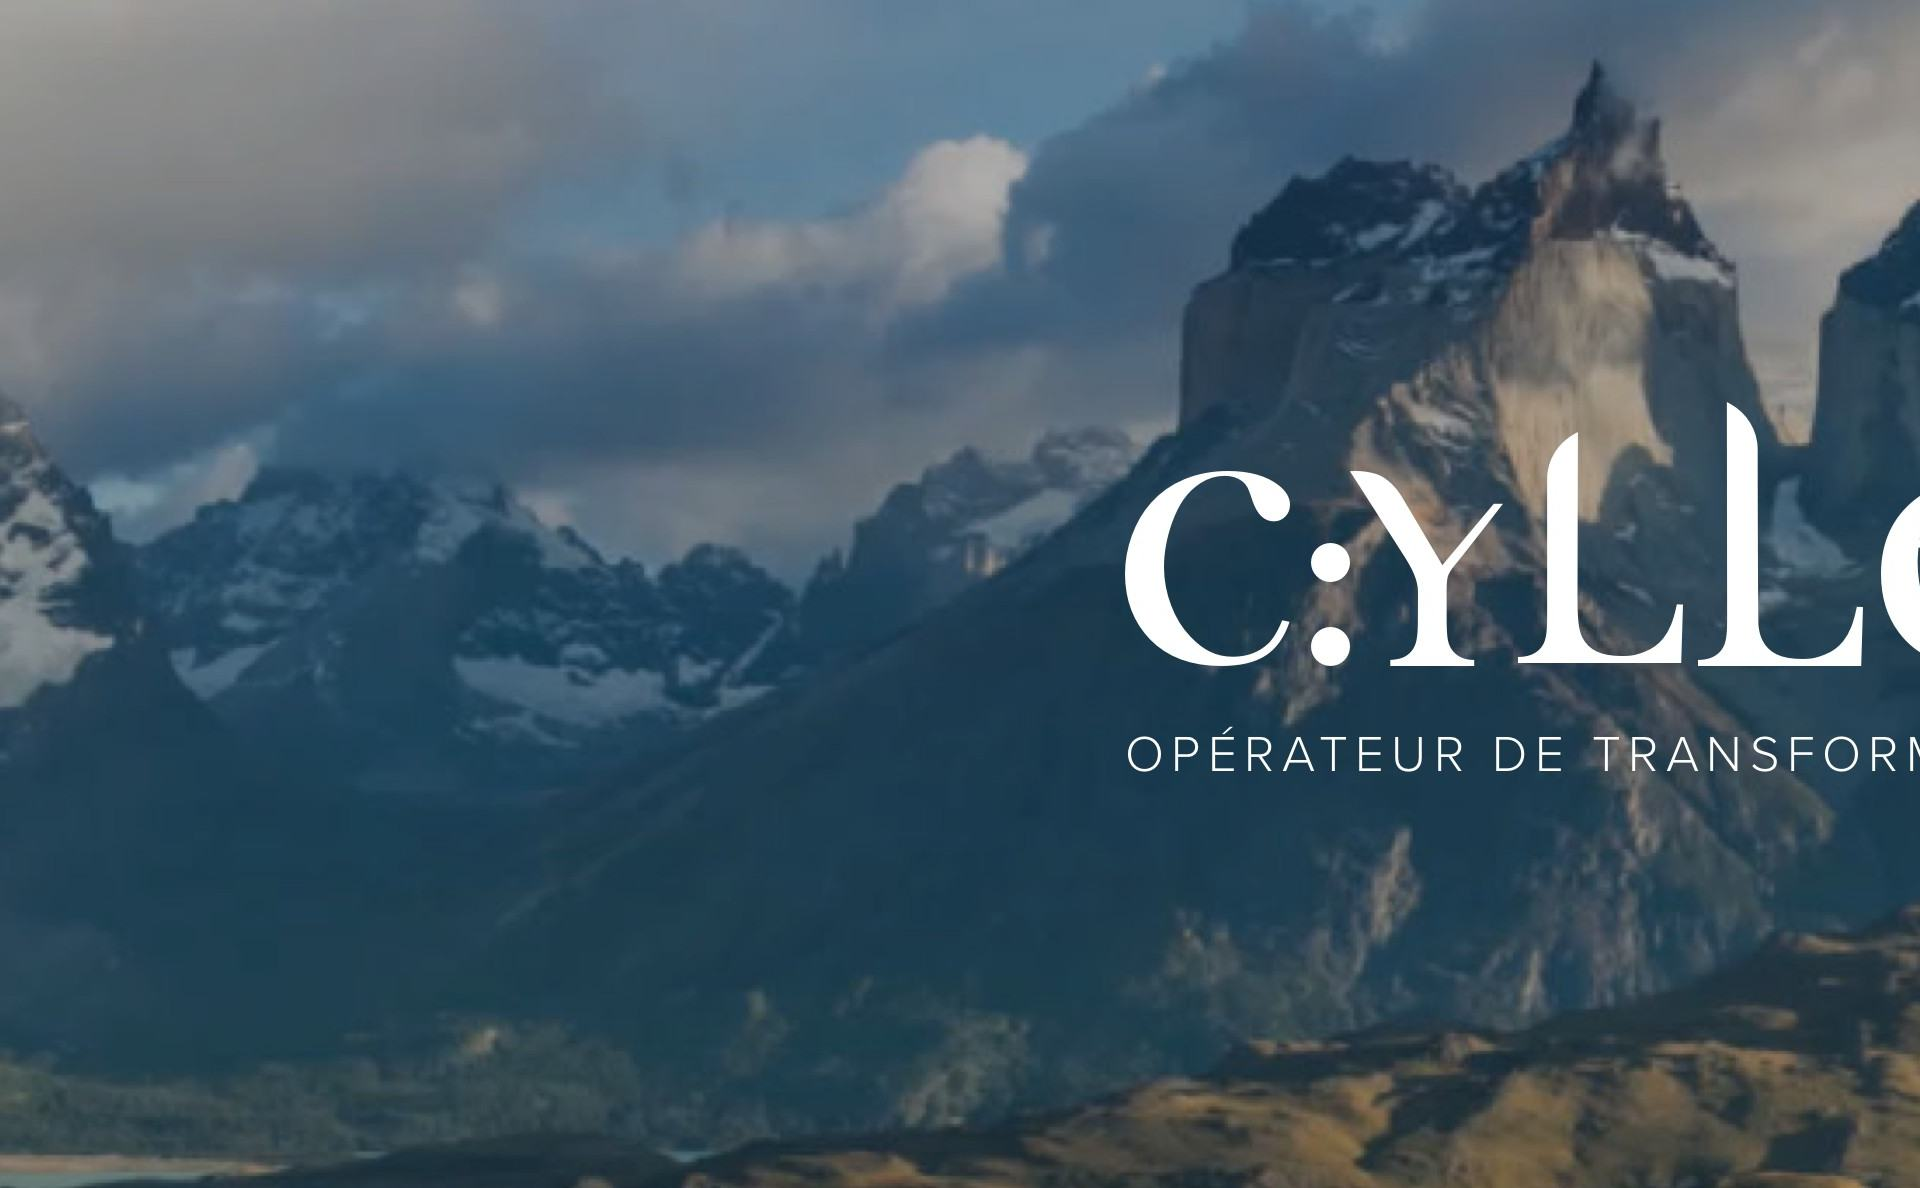
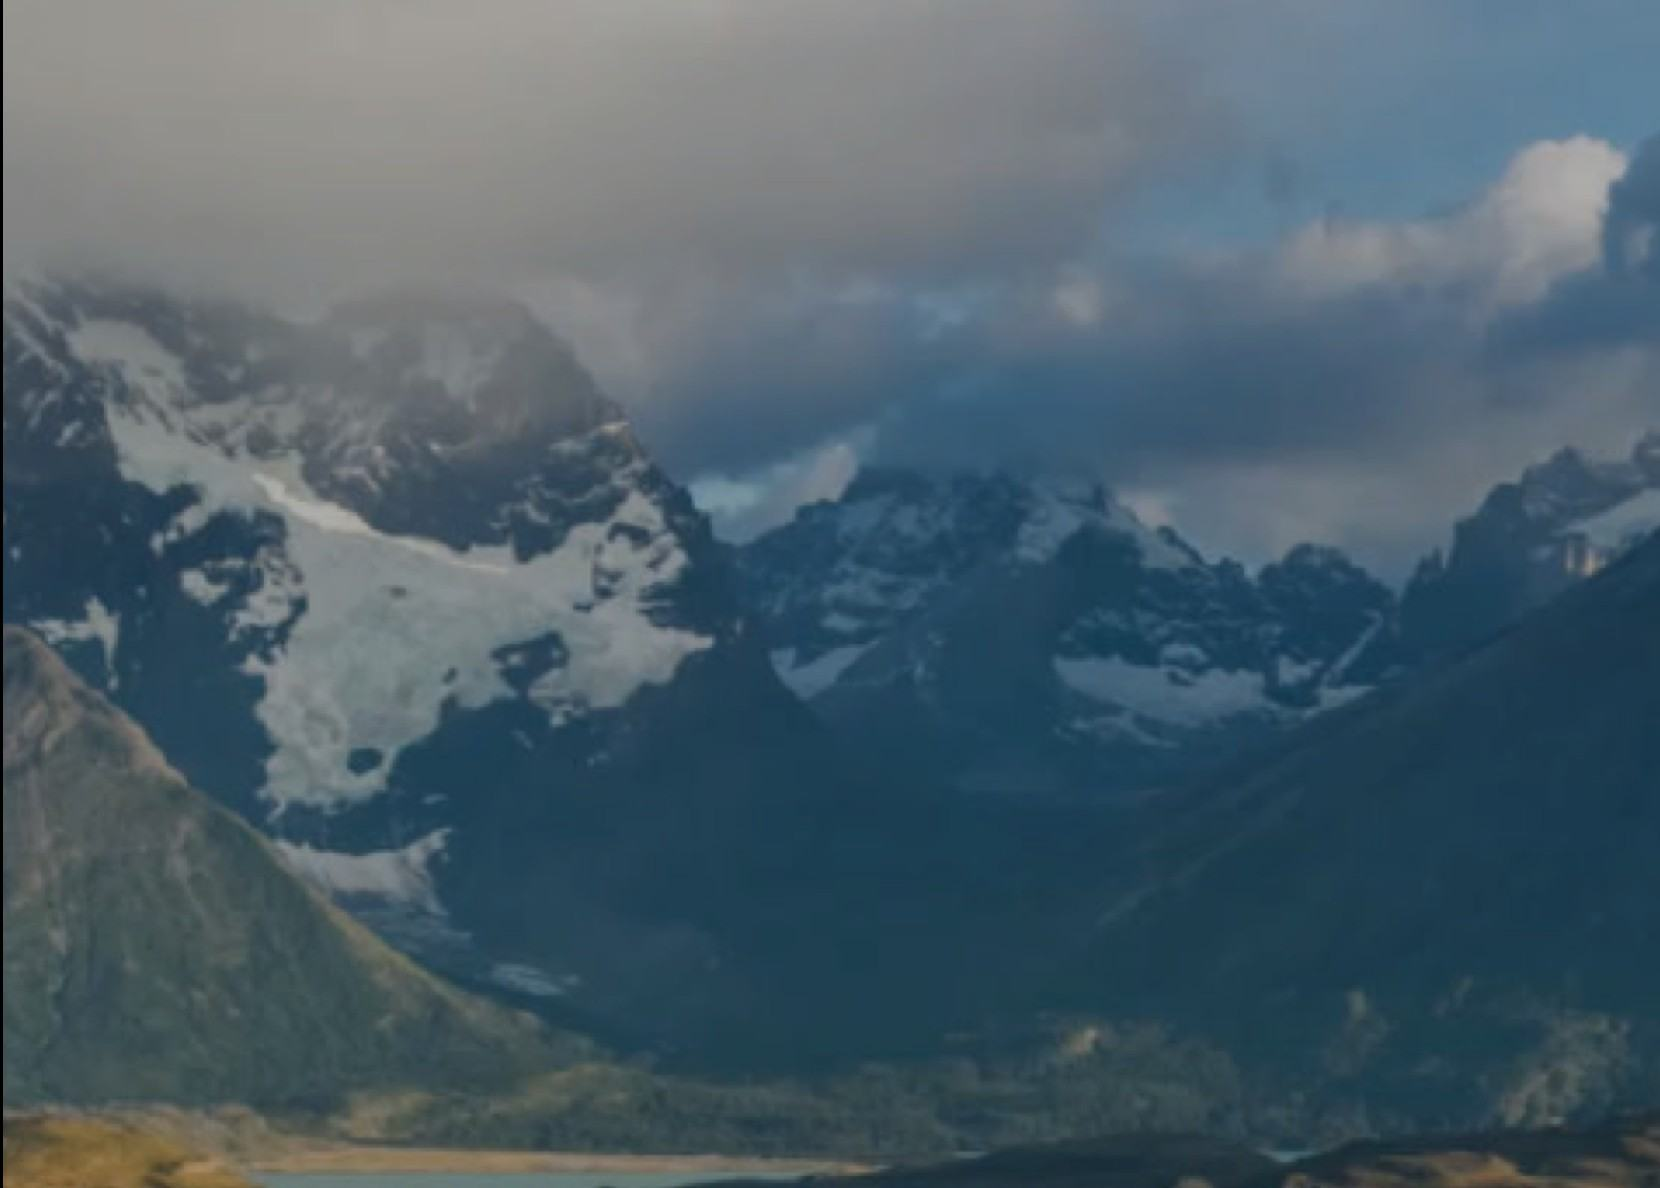
fix(ui): login sans wordmark incrusté + header qui ne déborde plus
- L'image de fond du login recadrait une zone contenant le wordmark
  c:yllene incrusté dans la cover source (lettres géantes coupées à
  droite de l'écran). Recadrage sur la fenêtre gauche x[0-1660], 100%
  libre de texte (glacier, plus sombre = meilleur contraste).
- Le débordement droit à 100% en français ne venait pas de la navbar
  mais de la grille du header : colonnes 1fr au plancher min-content ->
  la grille poussait le sélecteur de workspace hors viewport. Colonnes
  minmax(0,1fr) + min-w-0 sur le cluster droit + gaps 8->4/3 : le
  switcher tronque (il a déjà truncate/max-w) au lieu de sortir de
  l'écran.

diff --git a/web/src/layouts/components/header.tsx b/web/src/layouts/components/header.tsx
@@ -53,7 +53,7 @@ export function Header({
     <header
       key="app-navbar"
       className={cn(
-        'w-full grid grid-cols-[1fr_auto_1fr] grid-rows-1 items-center gap-8',
+        'w-full grid grid-cols-[minmax(0,1fr)_auto_minmax(0,1fr)] grid-rows-1 items-center gap-4',
         className,
       )}
       {...props}
@@ -76,7 +76,7 @@ export function Header({
       <GlobalNavbar />
 
       <div
-        className="flex items-center justify-end gap-4 text-text-badge"
+        className="flex items-center justify-end gap-3 min-w-0 text-text-badge"
         data-testid="auth-status"
       >
         <a
